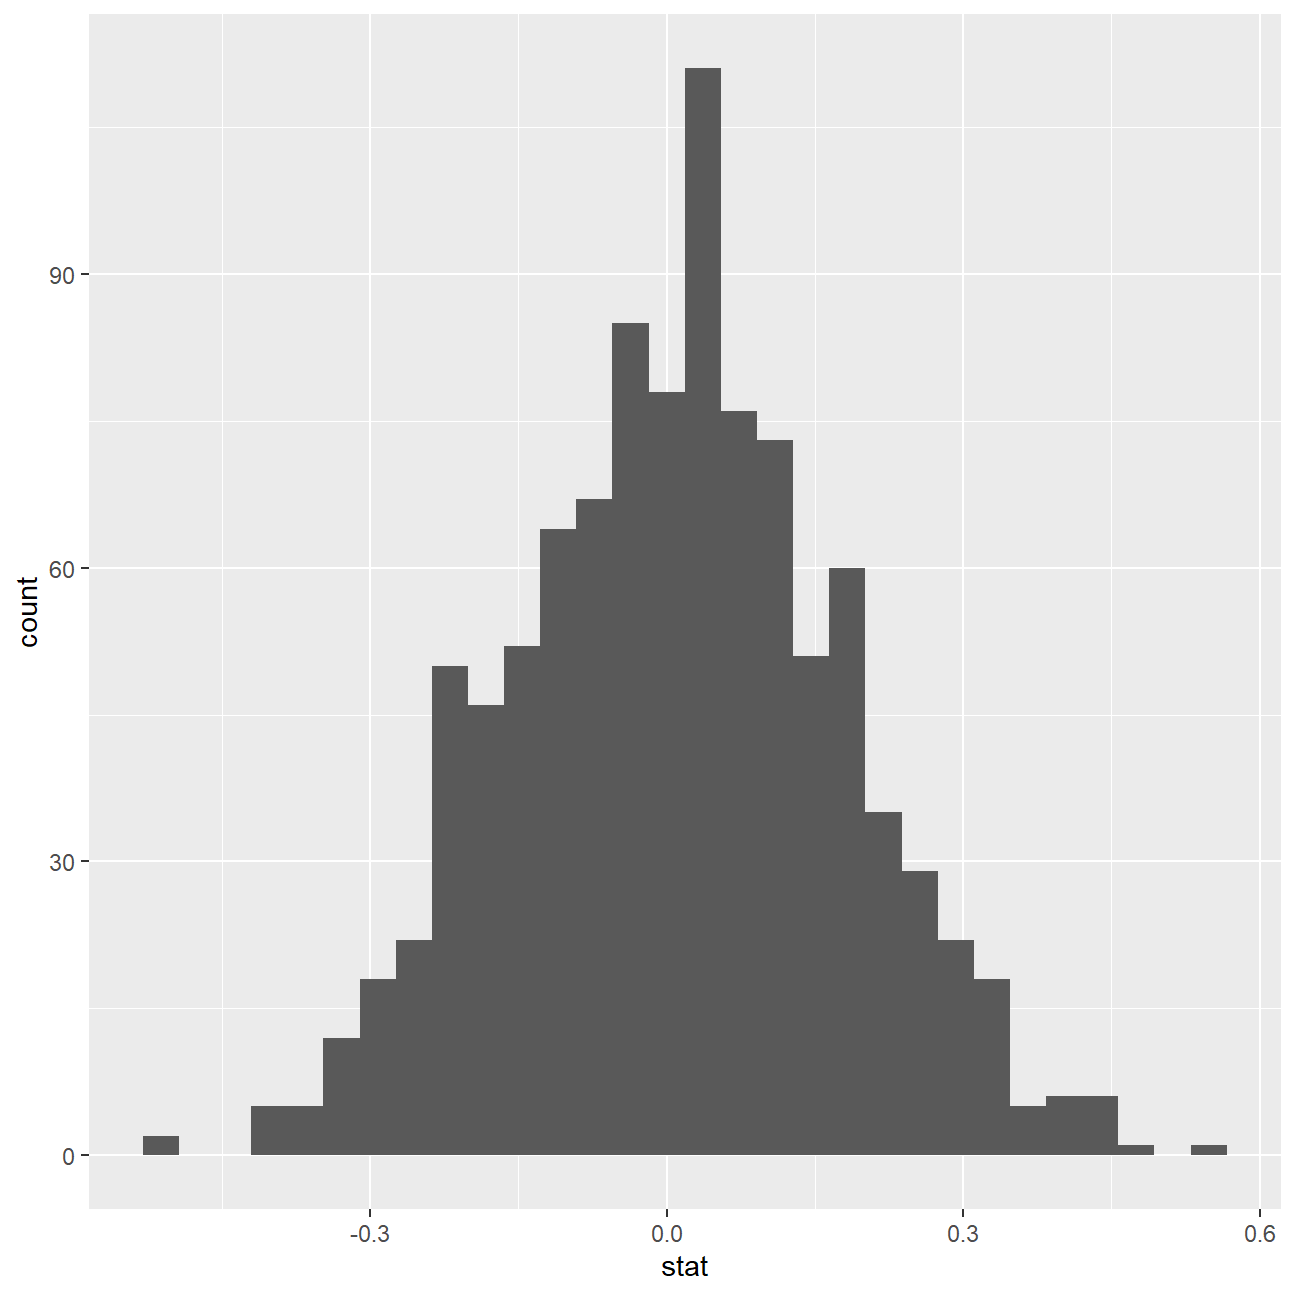
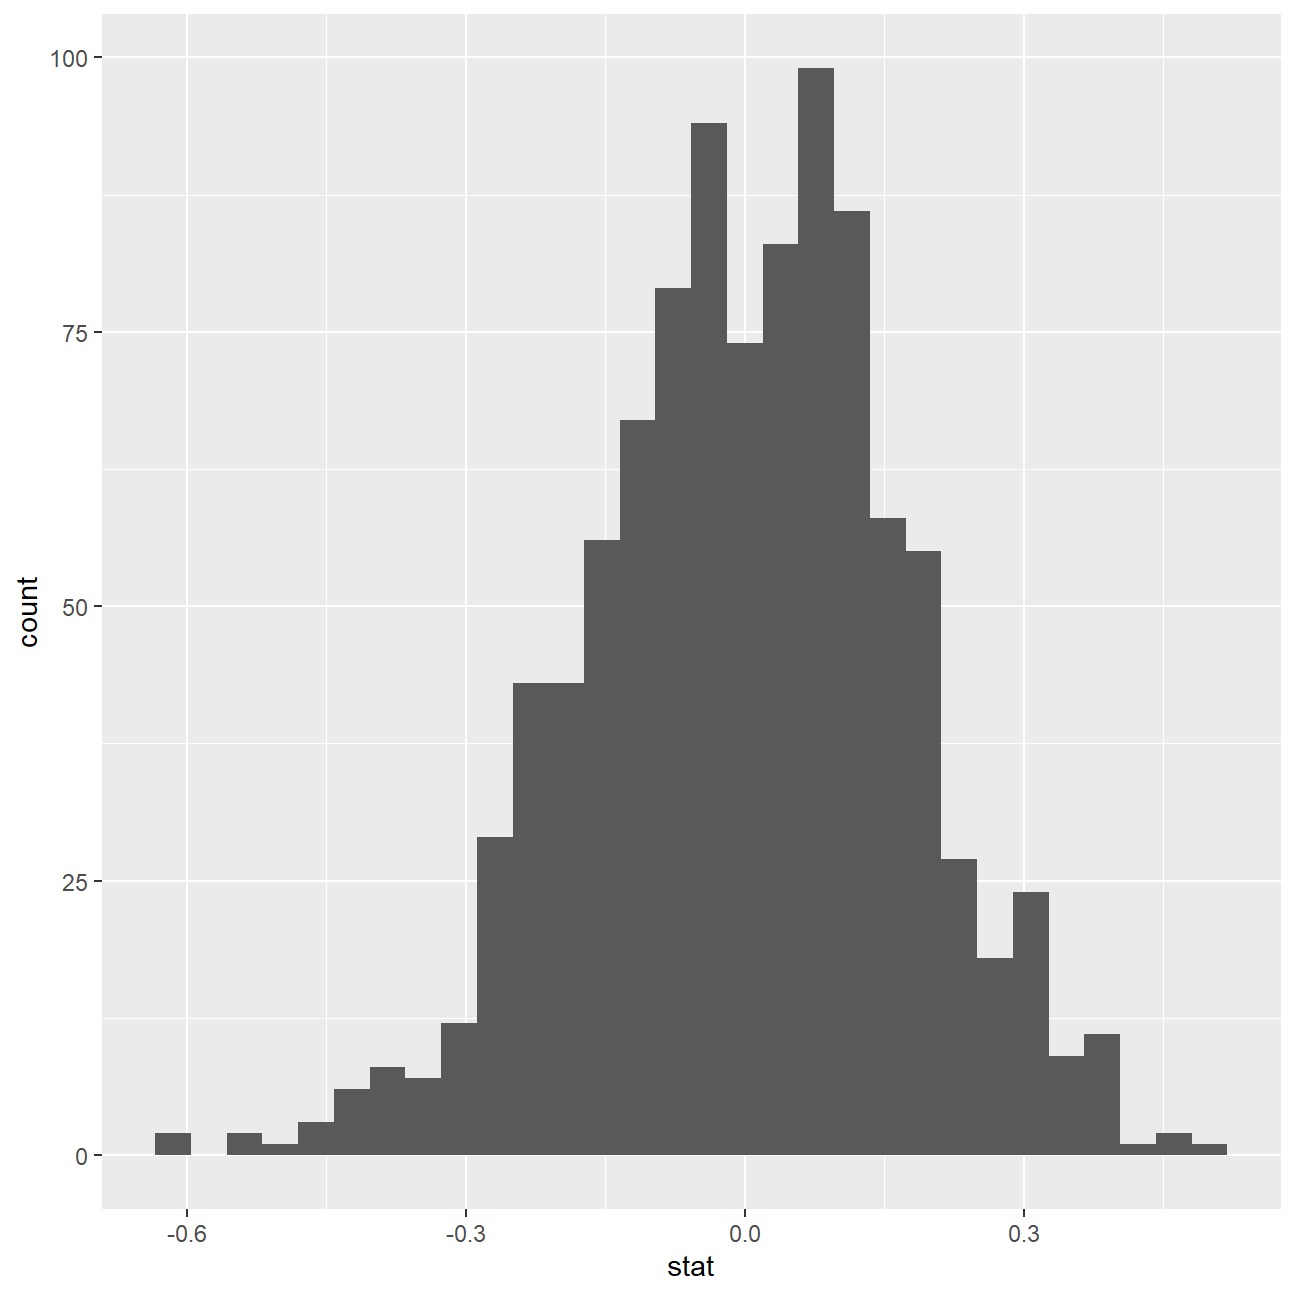
w

diff --git a/content/projects/project3/index.html b/content/projects/project3/index.html
@@ -1,28 +1,31 @@
 
 
 
-<pre><code>title = &quot;IMDB Ratings: Does the director play a role?&quot;
+<pre><code>title = &quot;STEVEN SPIELBERG VS TIM BURTON?&quot;
 author = &quot;Hugo Huere Alvarado&quot;
 date = &quot;2020-10-22&quot;
-output:
+output =
   html_document:
-    theme : flatly
-    highlight: zenburn
+    theme = flatly
+    highlight = zenburn
     number_sections = yes
-    toc: yes
-    toc_float: yes
-    code_folding: show</code></pre>
+    toc = yes
+    toc_float = yes
+    code_folding = show</code></pre>
 <div id="imdb-ratings-differences-between-directors" class="section level1">
 <h1>IMDB ratings: Differences between directors</h1>
 <p>This project was done to research whether the IMDB rating for blockbuster movies were influenced by the director. Before looking at any kind of data, a null hypothesis and alternative hypothesis were set up as follows:</p>
 <div id="null-hypothesis" class="section level3">
 <h3>Null Hypothesis</h3>
 <ul>
-<li>H0 there is no difference in the mean IMDB-rating for movies produced by Steven Spielberg or Tim Burton.</li>
+<li>There is no difference in the mean IMDB-rating for movies produced by Steven Spielberg or Tim Burton.</li>
 </ul>
 </div>
 <div id="alternative-hypothesis" class="section level3">
-<h3>ALternative Hypothesis</h3>
+<h3>Alternative Hypothesis</h3>
+<ul>
+<li>There is a significant difference between these mean IMDB-ratings.</li>
+</ul>
 <p>First, let us load the data into R:</p>
 <pre class="r"><code>movies &lt;- read_csv(here::here(&quot;data&quot;, &quot;movies.csv&quot;))
 glimpse(movies)</code></pre>
@@ -114,18 +117,18 @@ obs_diff</code></pre>
   calculate(stat = &quot;diff in means&quot;, order = c(TRUE, FALSE))
 null_dist</code></pre>
 <pre><code>## # A tibble: 1,000 x 2
-##    replicate     stat
-##        &lt;int&gt;    &lt;dbl&gt;
-##  1         1 -0.194  
-##  2         2 -0.00207
-##  3         3  0.102  
-##  4         4 -0.0462 
-##  5         5  0.0395 
-##  6         6  0.0525 
-##  7         7  0.112  
-##  8         8 -0.106  
-##  9         9 -0.148  
-## 10        10  0.0785 
+##    replicate    stat
+##        &lt;int&gt;   &lt;dbl&gt;
+##  1         1  0.0993
+##  2         2 -0.0696
+##  3         3  0.0733
+##  4         4  0.190 
+##  5         5 -0.0359
+##  6         6 -0.142 
+##  7         7  0.112 
+##  8         8  0.115 
+##  9         9 -0.277 
+## 10        10  0.0551
 ## # ... with 990 more rows</code></pre>
 <pre class="r"><code>ggplot(data = null_dist, aes(x = stat)) +
   geom_histogram()</code></pre>
